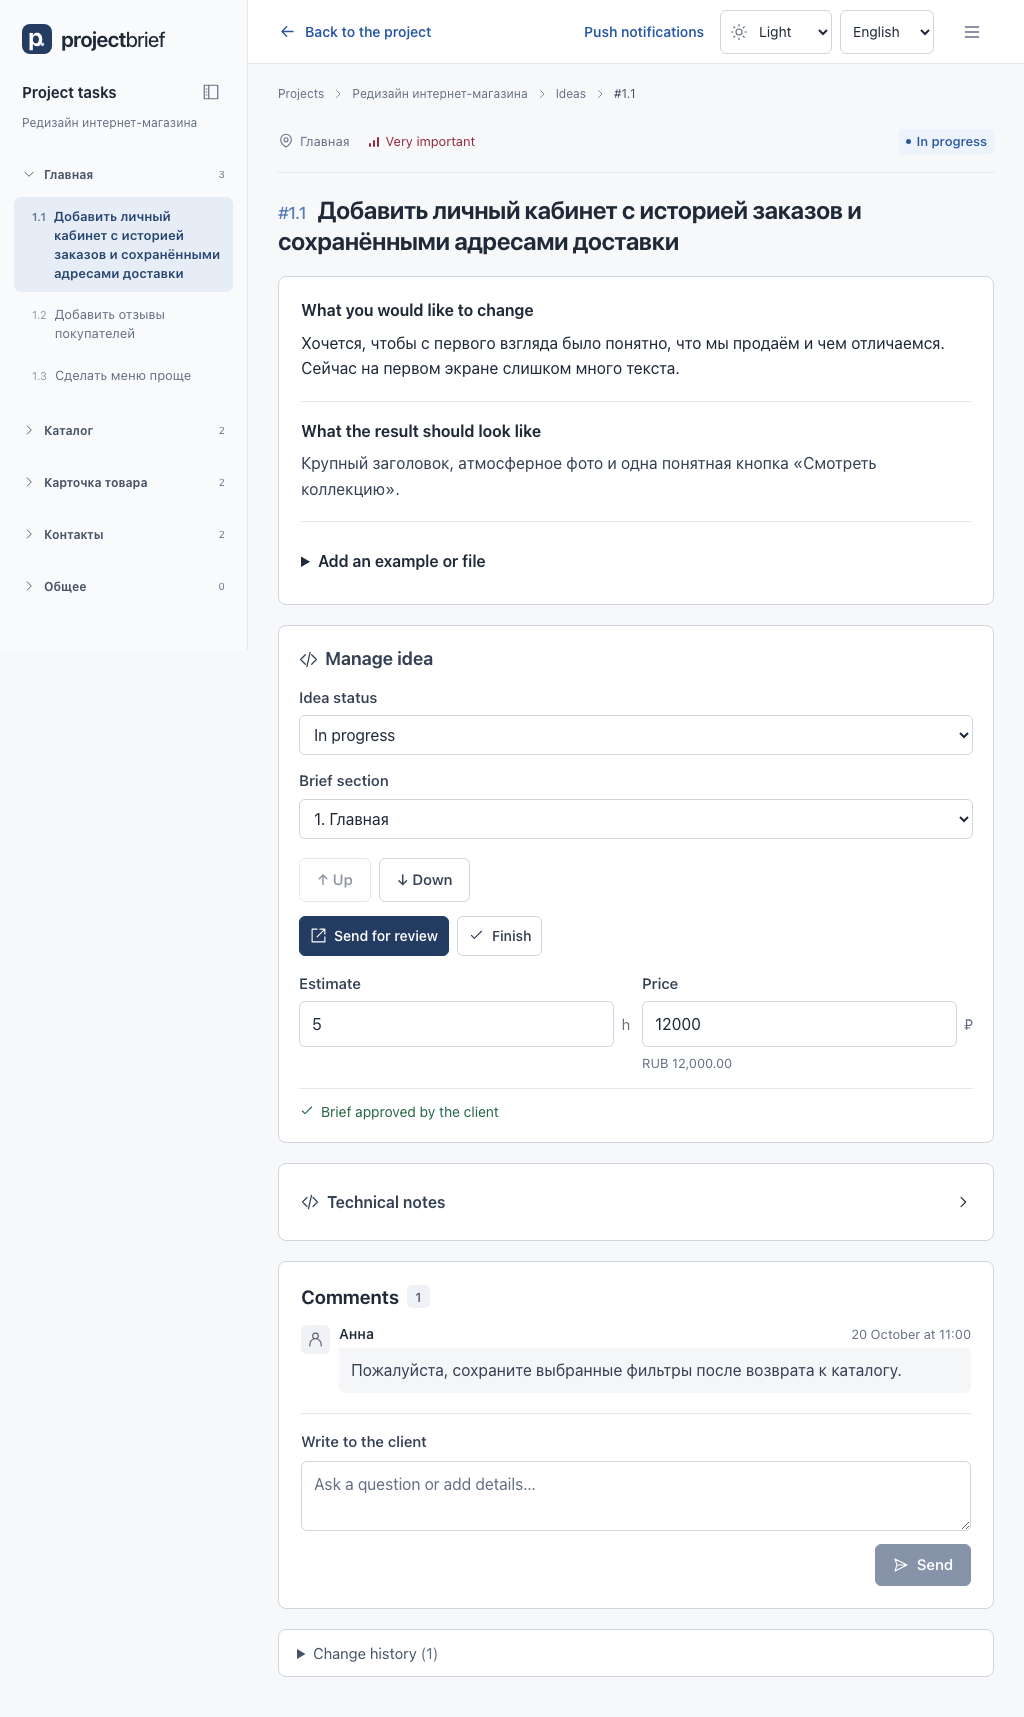
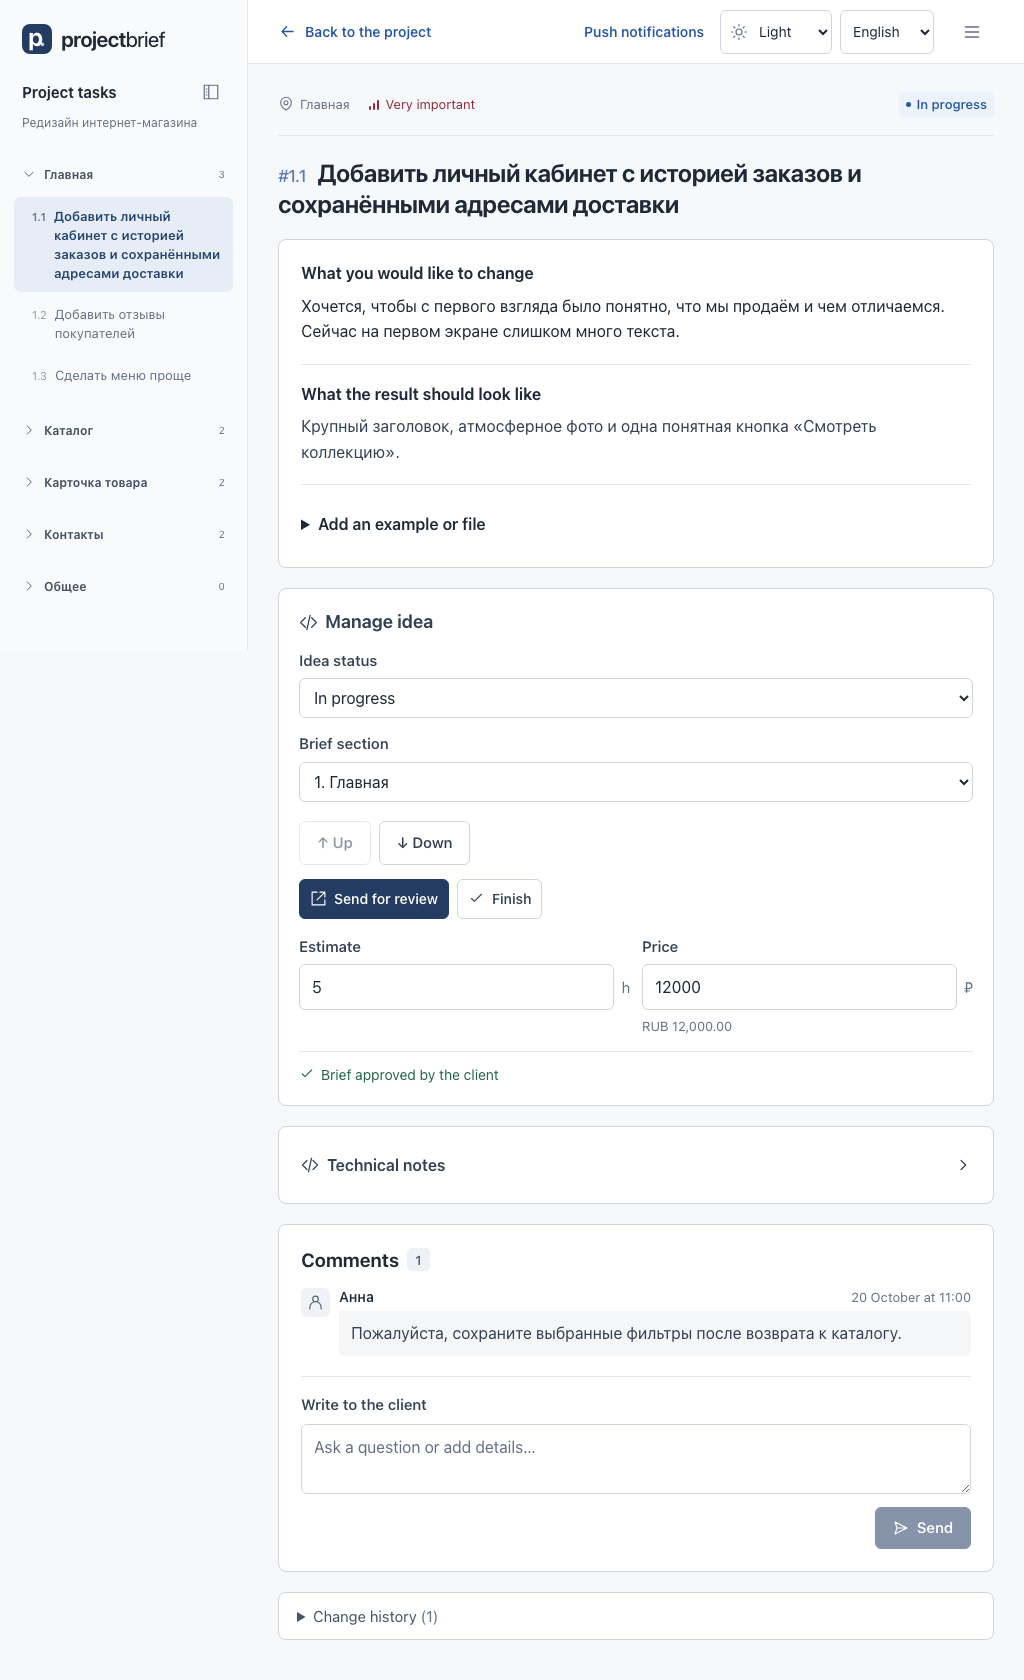
fix: omit breadcrumbs from task detail pages

diff --git a/tests/task-workspace.test.js b/tests/task-workspace.test.js
@@ -292,7 +292,6 @@ test('administrative breadcrumbs use existing project routes, localized names an
       }
     }
     for (const [destination, current, links] of [
-      [path(data.tasks[0].id), '#1.1', 3],
       [path(data.tasks[0].id) + '/edit', i18n.global.t('flow.editTitle'), 4],
       [`/admin/projects/${uuid}/brief/task/new`, i18n.global.t('ui.newIdea'), 3],
       ['/admin/projects/new', i18n.global.t('nav.newProject'), 1],
@@ -305,11 +304,21 @@ test('administrative breadcrumbs use existing project routes, localized names an
     }
   }
 })
-test('breadcrumbs stay absent on the project list, login and all client pages', async () => {
-  const { router } = await fixture()
-  for (const destination of ['/admin', '/admin/login', `/project/${uuid}`]) {
+test('breadcrumbs stay absent on task details with a back control, the project list, login and client pages', async () => {
+  const { router, data, path } = await fixture()
+  for (const destination of [
+    path(data.tasks[0].id),
+    '/admin',
+    '/admin/login',
+    `/project/${uuid}`,
+  ]) {
     await router.push(destination)
     assert.equal((await html(Breadcrumbs, router)).includes('<nav'), false)
+    if (router.currentRoute.value.meta.taskDetail) {
+      const output = await html(App, router)
+      assert.ok(output.includes('task-header-back'))
+      assert.equal(output.includes('class="breadcrumbs"'), false)
+    }
   }
 })
 test('the task logo targets the admin project list or the current client project and precedes the toolbar', async () => {

diff --git a/src/components/Breadcrumbs.vue b/src/components/Breadcrumbs.vue
@@ -9,7 +9,7 @@ const route = useRoute(),
   management = useProjectManagementStore(),
   store = useProjectStore()
 const items = computed(() => {
-  if (!route.meta.adminShell) return []
+  if (!route.meta.adminShell || route.meta.taskDetail) return []
   const projects = { label: t('nav.projects'), to: '/admin' }
   if (route.path === '/admin/projects/new') return [projects, { label: t('nav.newProject') }]
   const project = management.project
@@ -18,7 +18,7 @@ const items = computed(() => {
   const path = [projects, { label: project.name, to: root }]
   if (route.meta.projectSection !== 'brief') {
     path.push({ label: t('nav.' + route.meta.projectSection) })
-  } else if (route.meta.taskDetail || route.meta.editTask || route.path.endsWith('/task/new')) {
+  } else if (route.meta.editTask || route.path.endsWith('/task/new')) {
     path.push({ label: t('nav.brief'), to: root })
     const task = store.findTask(route.params.id)
     if (task) {

diff --git a/src/assets/main.css b/src/assets/main.css
@@ -3871,10 +3871,6 @@ button.attachment-item:hover {
 .breadcrumbs [aria-current] {
   color: var(--text-subtle);
 }
-.task-admin-main > .breadcrumbs {
-  padding: 22px 30px 0;
-  margin: 0;
-}
 .sidebar-workspace-label {
   display: flex;
   align-items: center;
@@ -3919,9 +3915,5 @@ button.attachment-item:hover {
   .breadcrumbs a,
   .breadcrumbs [aria-current] {
     max-width: 18ch;
-  }
-  .task-admin-main > .breadcrumbs {
-    padding: 16px 16px 0;
-    margin: 0;
   }
 }

diff --git a/docs/milestone-4-4-1/REPORT.md b/docs/milestone-4-4-1/REPORT.md
@@ -7,8 +7,8 @@
 - Правая панель администратора содержит название проекта, прежние семь маршрутов и бейдж обсуждений, заметную ссылку «Все проекты» и профиль текущего авторизованного пользователя с инициалами, фактической ролью и доступной кнопкой выхода. Имя и аватар не являются ссылками. Единственная прокрутка находится у самого dialog; разделение по высоте и компактная копия глобального сайдбара удалены. Если места достаточно, профиль располагается у нижнего края; в коротком окне вся панель прокручивается.
 - Обычный `AdminSidebar` сохраняет выбор рабочего пространства, создание и список проектов, бейджи и выход. Добавлена доступная с клавиатуры подсказка о рабочих пространствах на RU/EN.
 - Общий `TaskNavigator` перенесён из содержимого задачи на уровень оболочки обеих ролей. На desktop он начинается у верхней границы, содержит логотип с правильным адресом и занимает всю высоту viewport. Sticky-шапка и содержимое занимают колонку справа и расширяются при скрытии навигации. На mobile тот же список переносится через существующий Teleport в drawer; логотип не добавляет строку. Состояния аккордеонов, настройки скрытия, загрузка данных и управление панелями сохранены.
-- Один `Breadcrumbs.vue` используется административной оболочкой для проекта, его разделов, создания проекта и создания/редактирования/просмотра идеи. Ссылки используют Vue Router и существующие данные; последний элемент без ссылки, с `aria-current="page"`. UUID не показываются, длинные подписи сокращаются. На списке проектов, авторизации и клиентских страницах крошек нет. Повторяющие их ссылки возврата над административными формами удалены.
-- Для коротких drawer-панелей исправлен обход фокуса Tab/Shift+Tab на границах списка, сохранив Escape, модальность, закрытие по фону и возврат фокуса. Существующие предупреждения о несохранённых изменениях и явное сохранение работают также при переходе через крошки и выходе из профиля.
+- Один `Breadcrumbs.vue` используется административной оболочкой для проекта, его разделов, создания проекта и создания/редактирования идеи. Ссылки используют Vue Router и существующие данные; последний элемент без ссылки, с `aria-current="page"`. UUID не показываются, длинные подписи сокращаются. На детальной странице идеи оставлена только кнопка «Назад к проекту» в шапке. На списке проектов, авторизации и клиентских страницах крошек нет. Повторяющие их ссылки возврата над административными формами удалены.
+- Для коротких drawer-панелей исправлен обход фокуса Tab/Shift+Tab на границах списка, сохранив Escape, модальность, закрытие по фону и возврат фокуса. Существующие предупреждения о несохранённых изменениях и явное сохранение работают также при возврате к проекту, переходе через крошки административных страниц и выходе из профиля.
 
 Проверки:
 
